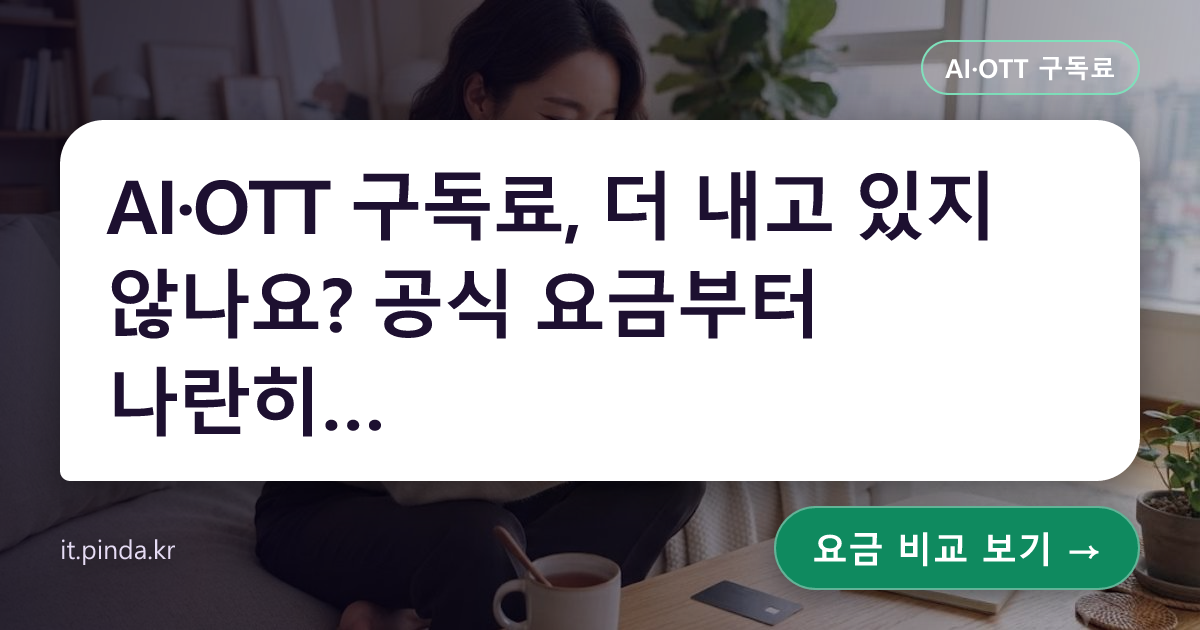
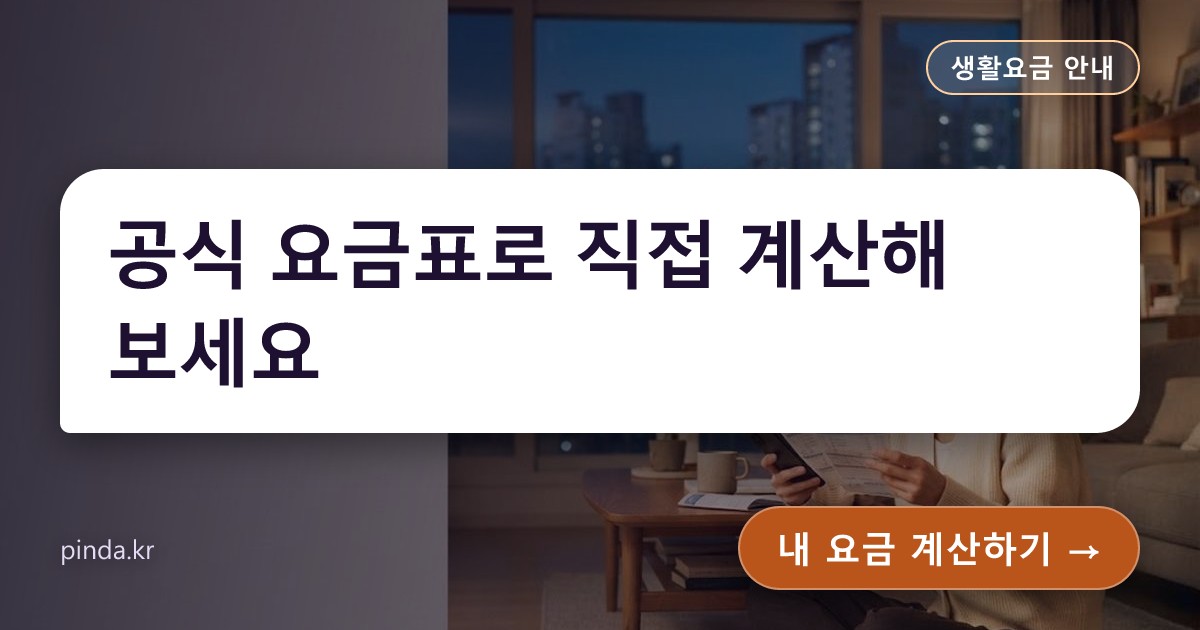
Serve assets with no html handling, tone down an unverified note

diff --git a/src/app/(frontend)/tools/electricity/page.tsx b/src/app/(frontend)/tools/electricity/page.tsx
@@ -66,7 +66,7 @@ export default async function Page() {
       </ol>
       <h2>계산 결과가 고지서와 다른 이유</h2>
       <ul>
-        <li>검침일이 월 중간이면 두 계절이나 두 분기에 걸친 사용량을 일수로 나눠 계산합니다.</li>
+        <li>검침 기간이 계절이나 분기에 걸치면 이 계산과 달라질 수 있습니다. 이 계산기는 한 달 전체를 한 시기로 봅니다.</li>
         <li>복지할인, 대가족 할인, 자동이체 할인, 에너지캐시백은 넣지 않았습니다.</li>
         <li>아파트는 공용 전기와 관리비 계산 방식에 따라 세대 고지액이 달라질 수 있습니다.</li>
         <li>TV 수신료는 별도입니다.</li>
